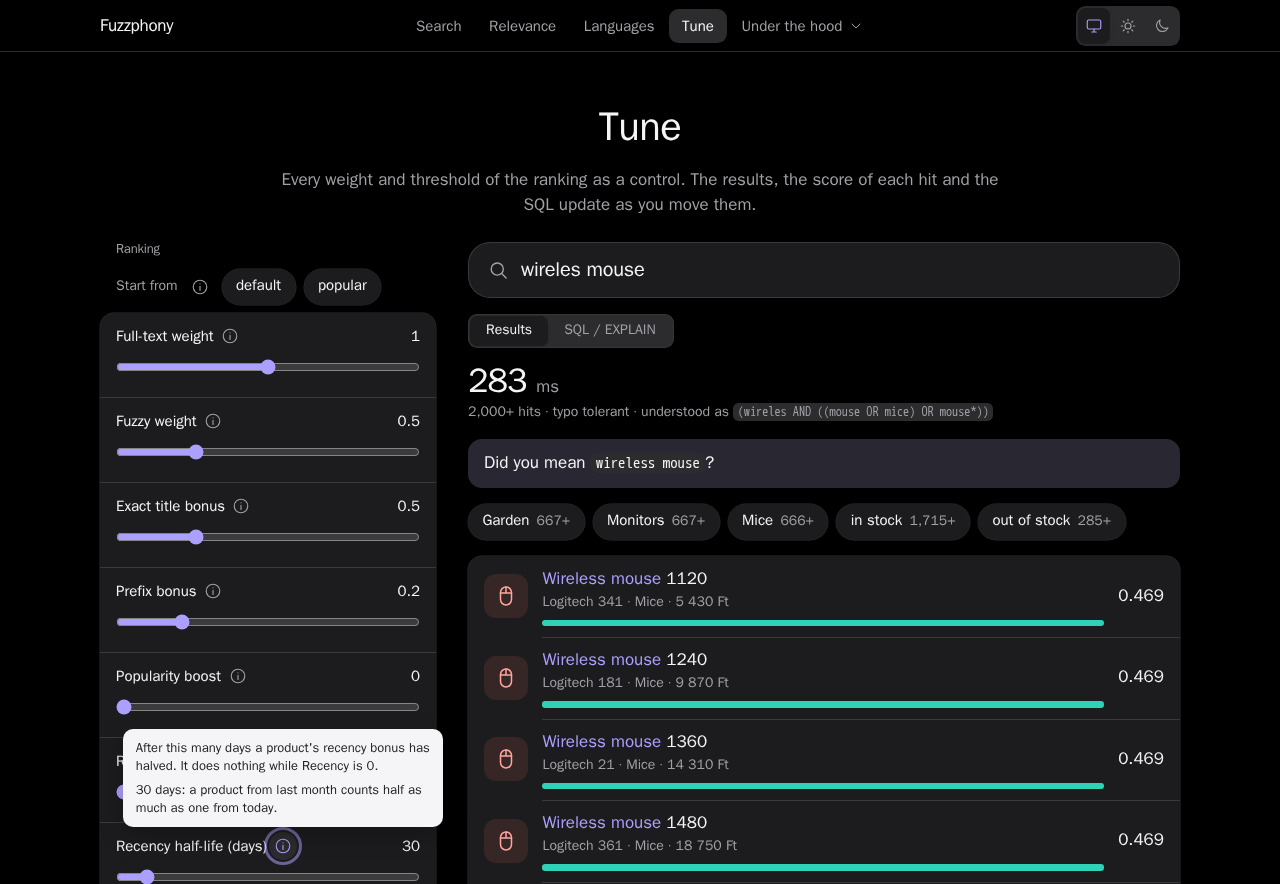
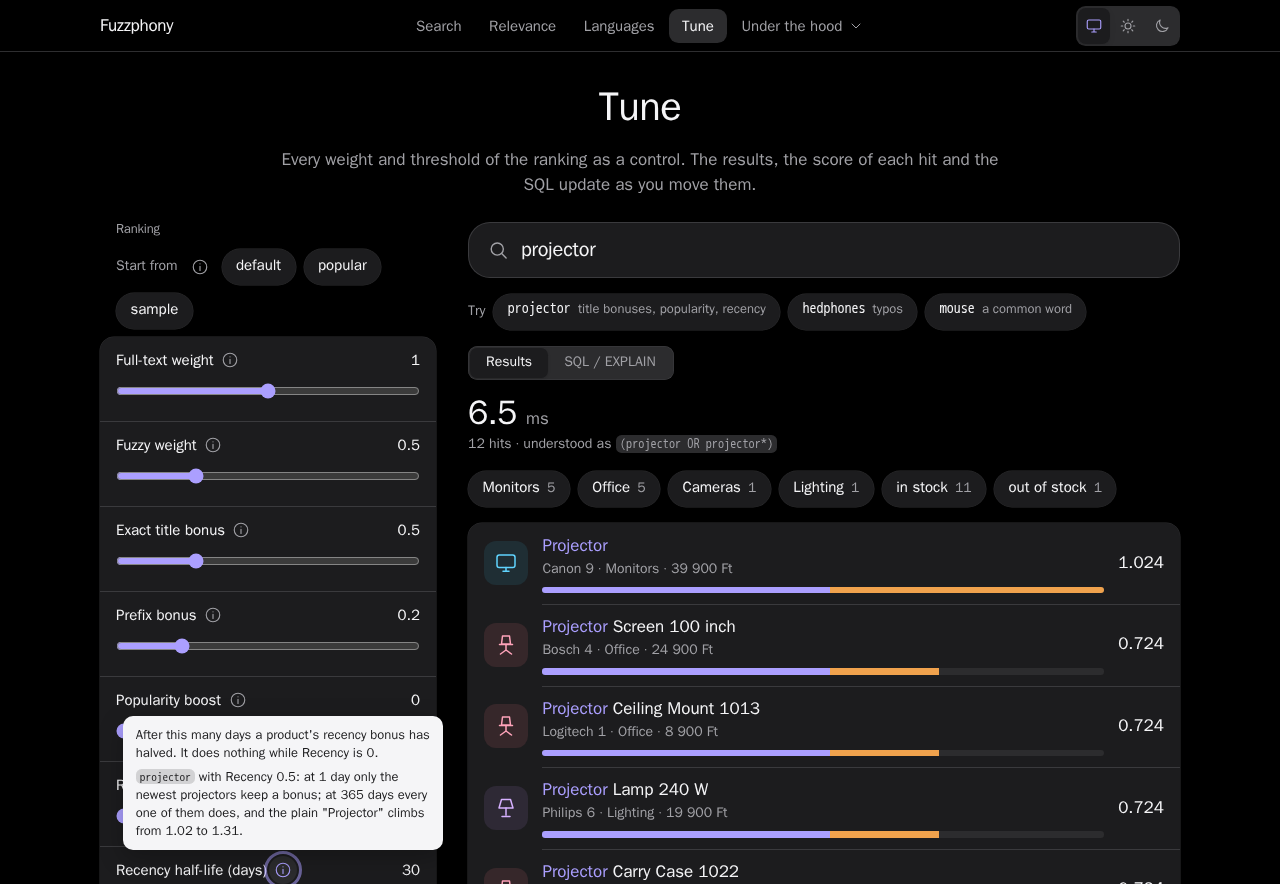
Docs: 0.9.12 changelog, roadmap, screenshots (Tune, wizard sample); tooltip names no row number

Changed region(s): [[0.0625, 0.0916, 0.9375, 1.0]]

diff --git a/demo/src/Service/SettingHelp.php b/demo/src/Service/SettingHelp.php
@@ -25,7 +25,7 @@ final class SettingHelp
         ],
         'fuzzy' => [
             'How much a word that matches approximately counts: its similarity to the query word (0 to 1) times this weight. Used only when typo tolerance runs.',
-            '`hedphones` finds "Wireless headphones 6300" with a similarity of 0.62: 0.31 at the default 0.5. At 0 no typo match counts and the search finds nothing.',
+            '`hedphones` finds the headphones with a similarity of 0.62: 0.31 at the default 0.5. At 0 no typo match counts and the search finds nothing.',
         ],
         'exactBonus' => [
             'Added when the whole title equals the query, ignoring case and accents.',

diff --git a/demo/README.md b/demo/README.md
@@ -134,6 +134,8 @@ is added to the project): see the comment at the top of the file. [`tools/flows.
 the live results, the rescue, the suggestion panel with the keyboard, the colour scheme switch, the footer's position, the menu's centring, clearing a search box, the loading language, the search log, the Security page, the Speed view and the phone layout
 (it resets the viewer's count first, so a re-run is never refused by the previous one).
 
+**Config wizard sample.** `/under-the-hood/wizard?sample=1` (the "Load the sample configuration" button) shows one complete definition of the catalogue as YAML, builder and attributes, with a note per part. The data lives in one place, `src/Service/SampleConfig.php` (`CONFIG`, loaded through the library's own loader, so a mistake throws; `NOTES`); Tune starts from its default profile and thresholds with the "sample" chip or `/tune?start=sample`. The attribute export says it cannot express profiles and thresholds. Synonyms are only explained: the library's YAML export writes a list of synonym groups as numbered keys.
+
 **Info tooltips on Tune.** Each control has an info button (`<button>` with `aria-describedby` and `aria-expanded`) that opens a custom tooltip on hover, focus or tap and closes on Escape, a press outside or blur; one is open at a time, it is placed inside the window (also on a phone) and a Live Component re-render leaves it alone (`data-live-ignore`). The texts are in one place, [`SettingHelp`](src/Service/SettingHelp.php); the behaviour is [`tooltip_controller.js`](assets/controllers/tooltip_controller.js), checked in `tools/flows.mjs`.
 
 **Loading looks the same everywhere.** Whatever the demo waits for, it shows the same three things after a short delay (so a fast answer does not flicker): a hairline bar runs along the top, the page dims (the field too, though it stays usable), the field shows a small spinner (a page without a field gets one of its own) and a status pill at the bottom says what is going on. `aria-busy` is the one signal, for the eyes and for assistive technology: a Live Component (Tune) and the live results set it on their own region, and a link or form sets it on `<main>` (`progress_controller.js`); the bar and the spinner follow either. One rule in `app.css` (`.busy-region`, `.field-spinner`) covers every page.

diff --git a/CHANGELOG.md b/CHANGELOG.md
@@ -11,6 +11,17 @@ and a link. Measurements, proofs and test names belong to the pull request, [doc
 
 ## [Unreleased]
 
+## [0.9.12] - 2026-10-30
+
+Demo-only release: no change to the library.
+
+### Changed
+
+- **Demo: Tune starts with `projector`**, twelve products that differ in title match, popularity, age, price and stock, so every ranking slider visibly reorders
+  or shrinks the list; example chips add `hedphones` (typos) and `mouse` (the candidate limit in the total), and the tooltips use the same examples.
+- **Demo: the Config wizard has a sample configuration** ("Load the sample configuration"): a complete definition of the catalogue as YAML, builder and
+  attributes, with a note per part; Tune starts from its profile and thresholds ("Start from: sample").
+
 ## [0.9.11] - 2026-10-29
 
 Patch release: a ranking fix for searches made as you type.
@@ -1058,7 +1069,8 @@ on its own:
 - Sync modes: queue (default), trigger, ORM, manual; watches for joined tables.
 - Doctor with fixes; CLI commands for schema, reindex, worker, search and explain.
 
-[Unreleased]: https://github.com/er2es/fuzzphony/compare/v0.9.11...HEAD
+[Unreleased]: https://github.com/er2es/fuzzphony/compare/v0.9.12...HEAD
+[0.9.12]: https://github.com/er2es/fuzzphony/compare/v0.9.11...v0.9.12
 [0.9.11]: https://github.com/er2es/fuzzphony/compare/v0.9.10...v0.9.11
 [0.9.10]: https://github.com/er2es/fuzzphony/compare/v0.9.9...v0.9.10
 [0.9.9]: https://github.com/er2es/fuzzphony/compare/v0.9.8...v0.9.9

diff --git a/README.md b/README.md
@@ -33,7 +33,7 @@ foreach ($result as $hit) {
 }
 ```
 
-Status: v0.9.11 (pre-1.0). The API may still change before 1.0; 0.10.0 gathers the remaining breaking changes. Breaking changes are listed in the
+Status: v0.9.12 (pre-1.0). The API may still change before 1.0; 0.10.0 gathers the remaining breaking changes. Breaking changes are listed in the
 [CHANGELOG](https://github.com/er2es/fuzzphony/blob/main/CHANGELOG.md) and explained in
 [UPGRADE.md](https://github.com/er2es/fuzzphony/blob/main/UPGRADE.md).
 
@@ -257,7 +257,7 @@ Details in [docs/limitations.md](https://github.com/er2es/fuzzphony/blob/main/do
 
 ## Roadmap
 
-Current: v0.9.11 (a ranking patch for as-you-type searches, on the 0.9.9 review-fix round after identity, search log and analytics, rate limit and
+Current: v0.9.12 (a demo-only patch after 0.9.11, a ranking patch for as-you-type searches, on the 0.9.9 review-fix round after identity, search log and analytics, rate limit and
 authorization). Breaking changes are gathered in one release so 1.0 can promise stability. PostgreSQL only before 1.0:
 
 - v0.10.0: a sturdier engine (`schema --apply` mandatory, a failing document no longer blocks its index, `code` fields for

diff --git a/docs/screenshots.md b/docs/screenshots.md
@@ -55,4 +55,12 @@ Every weight and threshold of the ranking as a control. Move a slider and the re
 where the score comes from: full text, fuzzy, bonuses) and the SQL update at once. The info icon next to each label opens a
 tooltip with what the setting does and an example from the catalogue.
 
+The page starts with `projector`: twelve products that differ in title match, popularity, age, price and stock, so every slider visibly reorders or shrinks the list. The chips under the field add a typo and a common word.
+
 ![Tune: the ranking weights and thresholds as sliders next to the results with their score breakdown](image/tune.png)
+
+## Config wizard
+
+"Load the sample configuration" shows one complete definition of the catalogue (a joined source, weighted fields, filters, watches, profiles, thresholds) as YAML, builder and attributes, with a note on every part; Tune starts from its values.
+
+![Config wizard: the sample configuration with a note per part and the YAML definition](image/wizard-sample.png)

diff --git a/docs/roadmap.md b/docs/roadmap.md
@@ -82,6 +82,8 @@ additive work after it (0.11.0) and the stable 1.0.0 do not have to change the A
   definitions, a reworked demo and CI, and documentation for a database that already exists (see
   [Joins, several tables and several indexes](configuration.md#joins-several-tables-and-several-indexes)).
 
+- v0.9.12, demo only (the library does not change): Tune starts with a query every setting reacts to, with example chips, and the Config wizard has a loadable sample configuration that Tune can start from.
+
 - v0.9.11: the exact-title and prefix bonuses now apply to searches made as you type (`asYouType()`).
 
 - v0.9.10, demo only (the library does not change): the language switch resets the search, an emptied search box
